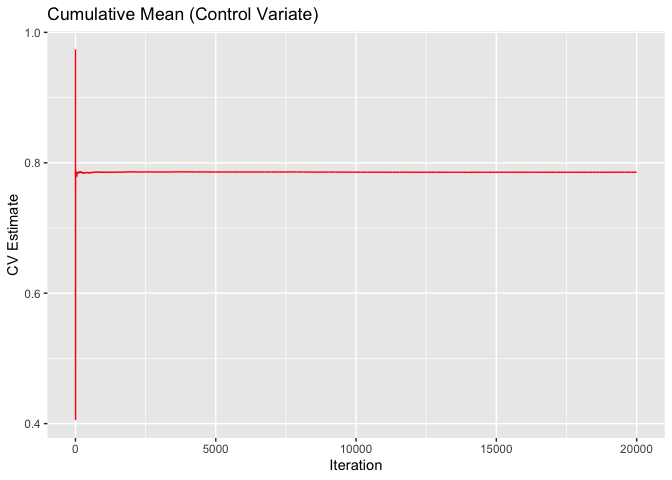
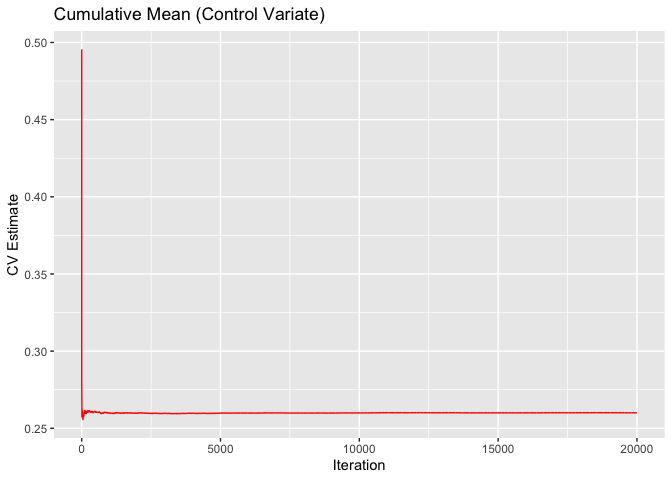
change parameters and distribution

Changed region(s): [[0.0312, 0.0, 0.9688, 1.0], [0.5312, 0.2188, 0.5625, 0.25], [0.3125, 0.2188, 0.3438, 0.25]]

diff --git a/project.md b/project.md
@@ -12,19 +12,19 @@ logistic <- function(z) {
 }
 
 # Set model parameters
-alpha <- 0        # Intercept
-beta  <- 1        # Covariate coefficient
+alpha <- -2        # Intercept
+beta  <- 0.5        # Covariate coefficient
 
 # Define random generators for non-normal distributions 
 #                   of random effect b and covariate x
-# Example: b ~ t_5 (heavy-tailed distribution)
+# b ~ t_5 (heavy-tailed distribution)
 r_b <- function(n) {
-  rt(n, df = 5)
+  rlnorm(n, meanlog = -1, sdlog = 0.5)
 }
 
-# Example: x ~ Gamma(shape=2, rate=1)
+# x ~ Gamma(shape=2, rate=1)
 r_x <- function(n) {
-  rgamma(n, shape = 2, rate = 1)
+  rgamma(n, shape = 2, rate = 2)
 }
 ```
 
@@ -172,7 +172,7 @@ true_value <- res_truth$est
 cat("Approx. True Value =", true_value, "\n")
 ```
 
-    ## Approx. True Value = 0.7859166
+    ## Approx. True Value = 0.2599716
 
 ``` r
 # 5.2. Repeat simulations for smaller N and compare bias, variance
@@ -226,9 +226,9 @@ df_comparison
 ```
 
     ##   method  mean_est          bias     variance
-    ## 1     MC 0.7857719 -0.0001446686 4.415522e-07
-    ## 2     CV 0.7857767 -0.0001399315 8.385587e-09
-    ## 3     IS 0.7855314 -0.0003851632 3.016384e-06
+    ## 1     MC 0.2599706 -9.988906e-07 9.129788e-08
+    ## 2     CV 0.2601356  1.640618e-04 6.386389e-09
+    ## 3     IS 0.3200838  6.011218e-02 8.068068e-07
 
 ``` r
 # 5.3 Compare CPU time
@@ -246,9 +246,9 @@ test_time
 
     ## Unit: milliseconds
     ##  expr      min       lq     mean   median       uq      max neval
-    ##    MC 15.75626 15.99820 16.19890 16.16081 16.48327 16.64957    10
-    ##    CV 19.31563 19.53470 19.72941 19.74812 19.92493 20.18754    10
-    ##    IS 43.43483 43.85303 45.03283 44.15784 44.48090 49.17663    10
+    ##    MC 18.03061 18.37866 19.49526 18.66958 18.83122 27.84675    10
+    ##    CV 23.57791 24.32173 24.46095 24.49158 24.60759 25.42344    10
+    ##    IS 76.51502 77.05323 77.95181 77.25929 77.90385 84.23540    10
 
 - **Monte Carlo (MC)** is the fastest because it only generates random
   samples and computes the mean, with O(N) complexity and no additional
